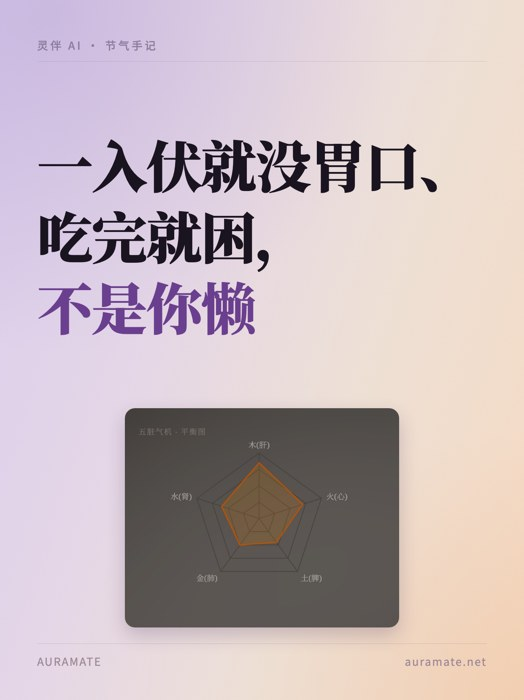
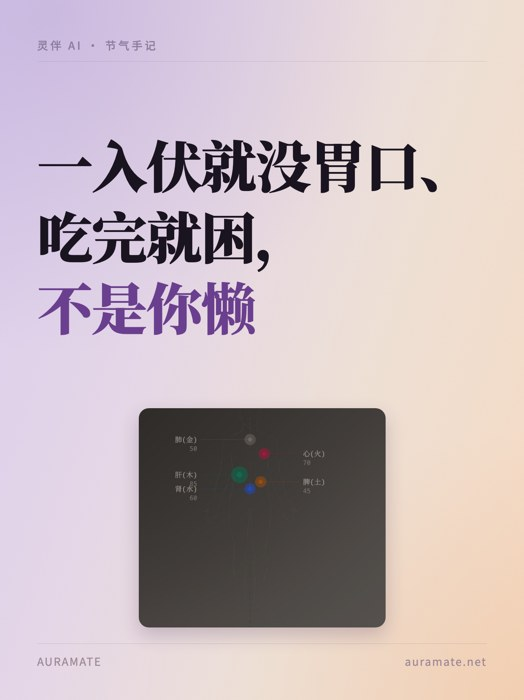
节令封面按「标题主语要在画面里」返工 + 加多人协作 pull 约定
按陈江西 069f929 新加的第 6 条自查，节令封面不合规：标题主语是「你的体感」，
配的却是抽象五边形。换成人体五脏图（画面里真的有个身体），五边形移到内页
讲形状。教程封面标题主语是那张八边形，用完整雷达图，本来就符合。

顺带两处诚实性修正：
- 内页 note 原写「换成五边形就一眼看出来了」—— 实际并不一眼可辨，硬证据是
  数字（脾 45 最低）。改成「这个五边形画的是同一组数，最靠里的那一角就是土」。
- product-figures/ 里的概念图全是带营销文案和二维码的宣传海报，图里带信息 +
  有 CTA，一张都不能用。查过了，记在 skill 里免得下次再翻一遍。

**节令封面缺口如实记录**：这类帖的主语是读者体感，本该配氛围插画，但 codex
挂了、现有素材里没有能用的氛围图。当前用人体五脏图是退而求其次，codex 修好
后第一件事是补一张氛围封面。没有假装这版是最优解。

README 维护约定加「这个仓库多人在改，动手前先 pull」—— 我上次是 push 被拒
才 fetch/rebase，顺序错了。冲突原则：在对方新内容之上合并，不 force。

diff --git a/docs/demo/08-jieling-4.html b/docs/demo/08-jieling-4.html
@@ -31,8 +31,8 @@ html,body{width:1242px;height:1660px;font-family:'Noto Serif SC','Songti SC',ser
   font-family:'Noto Sans SC','PingFang SC',sans-serif;font-size:26px;color:#9e8a99;letter-spacing:0.1em;}
 </style></head><body><div class="frame">
 <div class="kicker">节气手记 · 03</div>
-<div class="head">我这张，最低的一角<span class="em">正好是脾</span></div>
-<div class="shotwrap"><div class="shot"><img src="assets/wuyun-body.jpg"/></div></div>
-<div class="note">五个数字标的是这段时间各脏的负载，越低越吃力。我这张肝 85 最高、<span class="em">脾 45 最低</span>。你那张最低的是哪一角，值得点开看一眼——每个人不一样。</div>
-<div class="foot"><span>灵伴 AI · 五脏读数</span><span>肝 85 · 心 70 · 肾 60 · 肺 50 · 脾 45</span></div>
+<div class="head">换成形状看，<span class="em">凹得最深的那个角</span></div>
+<div class="shotwrap"><div class="shot"><img src="assets/wuyun-radar.jpg"/></div></div>
+<div class="note">封面那张标的是数字：我这份是肝 85、心 70、肾 60、肺 50、<span class="em">脾 45</span>。这个五边形画的是同一组数——最靠里的那一角就是土（脾），入伏这几天最先撑不住的就是它。你那张最靠里的是哪一角，值得点开看一眼。</div>
+<div class="foot"><span>灵伴 AI · 五脏读数</span><span>越往里凹越吃力</span></div>
 </div></body></html>

diff --git a/docs/demo/08-jieling-1.html b/docs/demo/08-jieling-1.html
@@ -48,6 +48,6 @@ html,body{width:1242px;height:1660px;font-family:'Noto Serif SC','Songti SC',ser
 </style></head><body><div class="frame">
 <div class="kicker">灵伴 AI · 节气手记</div>
 <div class="titlewrap"><div class="title">一入伏就没胃口、<br/>吃完就困，<br/><span class="em">不是你懒</span></div></div>
-<div class="illo"><img src="assets/wuyun-radar.jpg"/></div>
+<div class="illo"><img src="assets/wuyun-body.jpg"/></div>
 <div class="foot"><span>AURAMATE</span><span>auramate.net</span></div>
 </div></body></html>

diff --git a/docs/demo/build.py b/docs/demo/build.py
@@ -368,7 +368,7 @@ body('07-dashang-2.html', '灵体大赏 · 01', [
 # ════════════════════════════════════════════════════════════════
 cover('08-jieling-1.html', '灵伴 AI · 节气手记',
       '一入伏就没胃口、<br/>吃完就困，<br/><span class="em">不是你懒</span>',
-      'assets/wuyun-radar.jpg', illo_h=520, fit='contain', card=True)
+      'assets/wuyun-body.jpg', illo_h=520, fit='contain', card=True)
 
 body('08-jieling-2.html', '节气手记 · 01', [
  '入伏这几天，很多人会同时出现这几样：早上起不来，中午吃两口就饱，'
@@ -389,11 +389,11 @@ body('08-jieling-3.html', '节气手记 · 02', [
 ])
 
 shot('08-jieling-4.html', '节气手记 · 03',
-     '我这张，最低的一角<span class="em">正好是脾</span>',
-     'assets/wuyun-body.jpg', '灵伴 AI · 五脏读数', '肝 85 · 心 70 · 肾 60 · 肺 50 · 脾 45', portrait=False,
-     note='五个数字标的是这段时间各脏的负载，越低越吃力。'
-          '我这张肝 85 最高、<span class="em">脾 45 最低</span>。'
-          '你那张最低的是哪一角，值得点开看一眼——每个人不一样。')
+     '换成形状看，<span class="em">凹得最深的那个角</span>',
+     'assets/wuyun-radar.jpg', '灵伴 AI · 五脏读数', '越往里凹越吃力', portrait=False,
+     note='封面那张标的是数字：我这份是肝 85、心 70、肾 60、肺 50、<span class="em">脾 45</span>。'
+          '这个五边形画的是同一组数——最靠里的那一角就是土（脾），入伏这几天最先撑不住的就是它。'
+          '你那张最靠里的是哪一角，值得点开看一眼。')
 
 body('08-jieling-5.html', '节气手记 · 04', [
  '知道是脾在硬撑，这几天该怎么过就清楚了。',

diff --git a/skills/tuwen-seasonal/SKILL.md b/skills/tuwen-seasonal/SKILL.md
@@ -112,6 +112,13 @@ allowed-tools: Read, Write, Edit, Bash, Glob, Grep
 模板 A 渐变编辑风。节气帖可以在配图上做文章：
 
 - codex-image 生成节气氛围插画（暖色、无字、编辑风）—— ⚠ 本机 codex 目前不可用，见 `05-toolchain.md`
+
+  > **节令封面缺口（2026-08-10，待补）**：节令帖的标题主语通常是**读者的体感**
+  > （「一入伏就没胃口、吃完就困」），按 `02-visual-system.md` 第 6 条「标题的主语要在画面里」，
+  > 封面该配氛围插画，不是技术图表。但 codex 挂了，现有产品素材里没有氛围图 ——
+  > `product-figures/` 里那些概念图全是带营销文案和二维码的宣传海报，**图里带信息 + 有 CTA，
+  > 一张都不能用**。当前 demo 退而用「人体五脏图」（至少画面里有个身体），
+  > **codex 修好后第一件事就是给节令系列补一张氛围封面。**
 - 产品里的节气相关截图（`health-wuyun` 的五运六气板块、`cny-wallpaper`）
 - **不用素材图库的俗气节气图**（红灯笼、饺子、二十四节气标准配图）
 

diff --git a/README.md b/README.md
@@ -362,6 +362,20 @@ examples/
 
 # 维护约定
 
+## ⚠ 这个仓库是多人在改 —— 动手前先 pull
+
+陈江西本人也直接往这里提交（例：`069f929` 加了「保留情绪钩子」「标题主语要在画面里」几条规则）。
+
+```bash
+git pull --rebase origin main     # 开工第一件事，不是推之前才想起来
+```
+
+**先 pull 再改**，别等 push 被拒了再 fetch/rebase —— 那时候你可能已经在一份过时的
+skill 上写了半天，或者把别人刚加的规则又改回去了。
+
+冲突时的原则：**在对方的新内容之上合并**，不 force。两边规则大概率是互补的，
+真打架就说清楚哪条留哪条为什么。
+
 - 每次被用户拒稿 / 平台限流，**当天**把结论写进对应的 reference，注明日期和原话。
 - 模板改了要同步跑 `docs/demo/build.py` 重出 demo，别只在某一篇 post 里改。
 - 新增内容类型 → 新开一个 `tuwen-*` 子 skill，别往主 skill 里堆。
